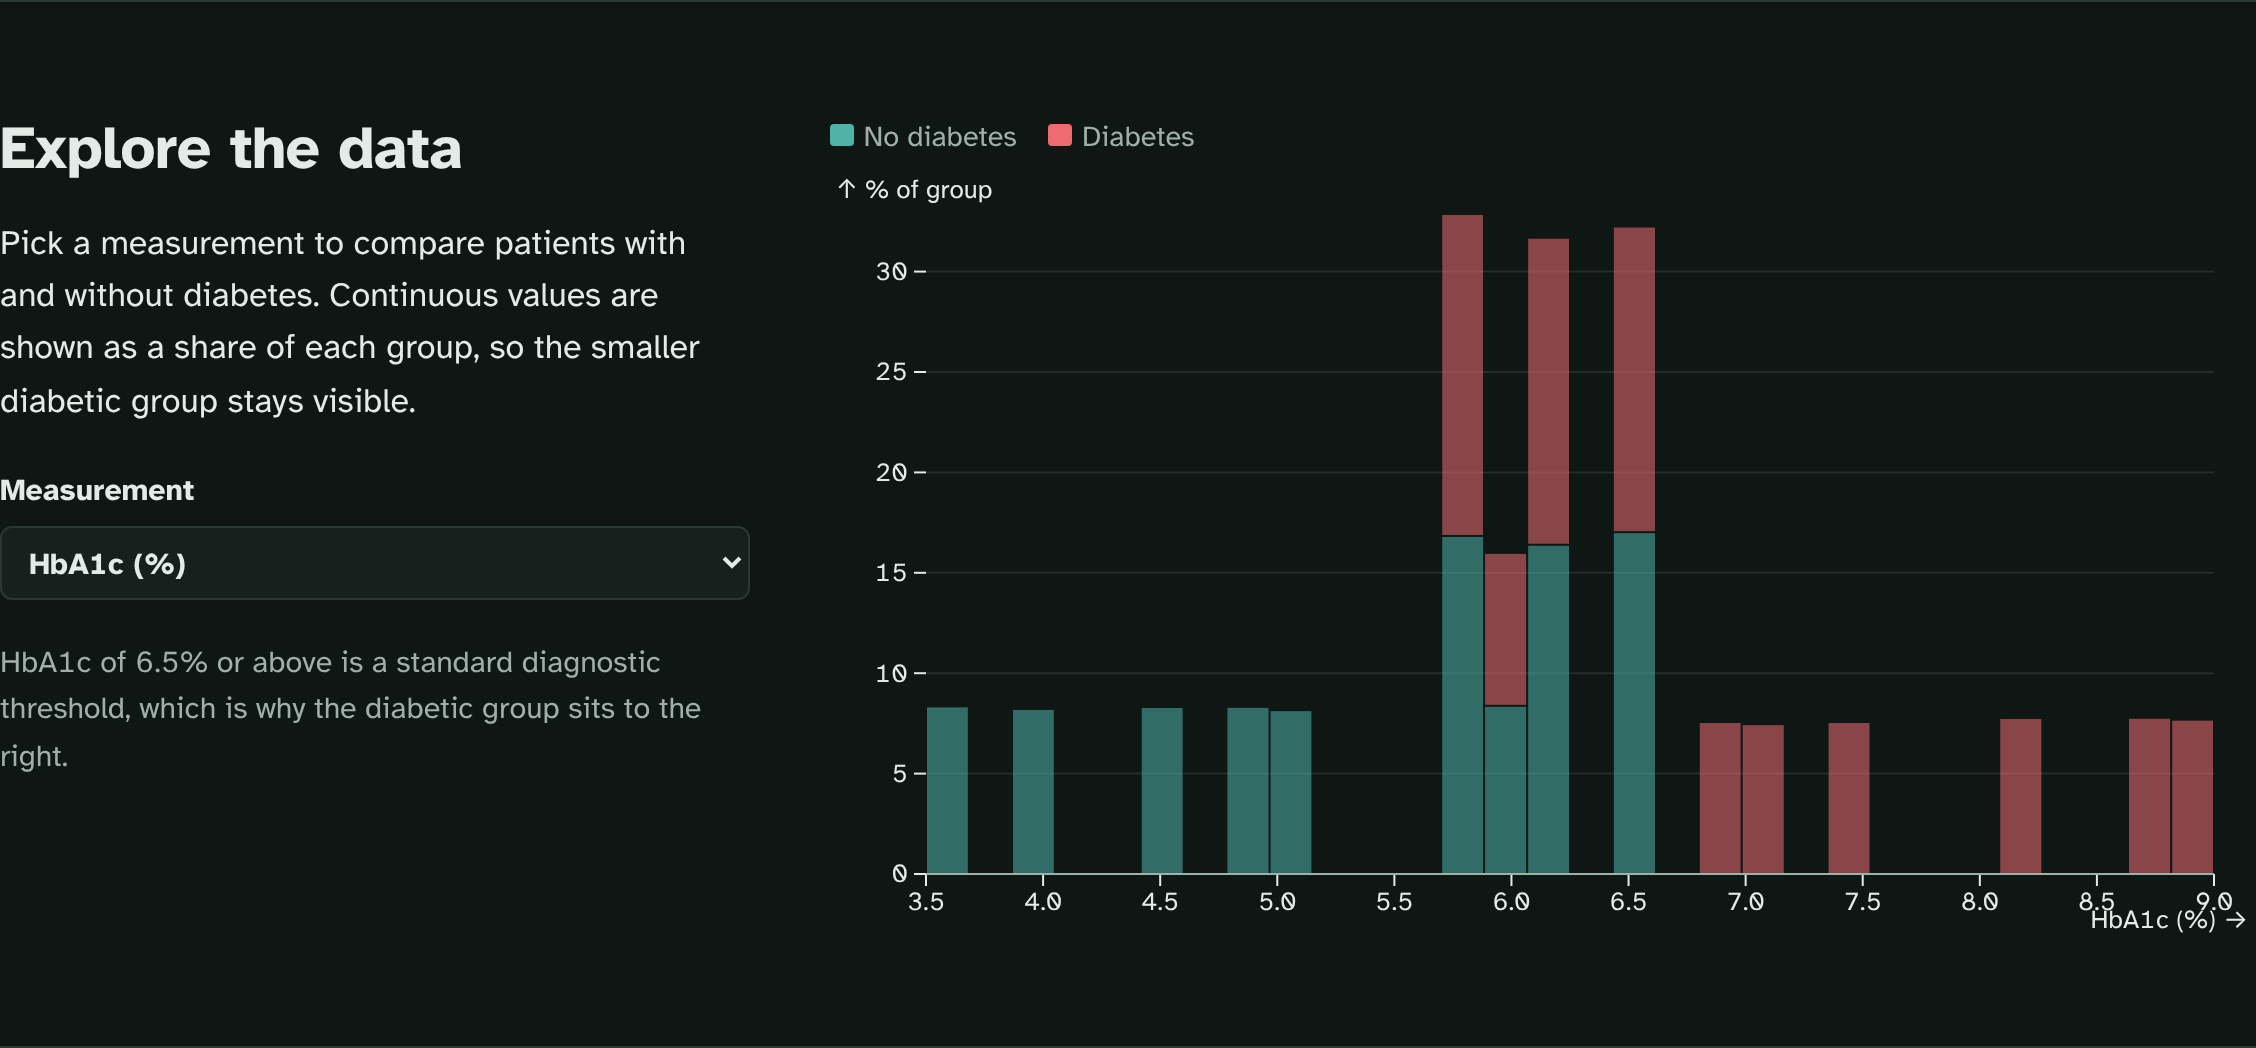
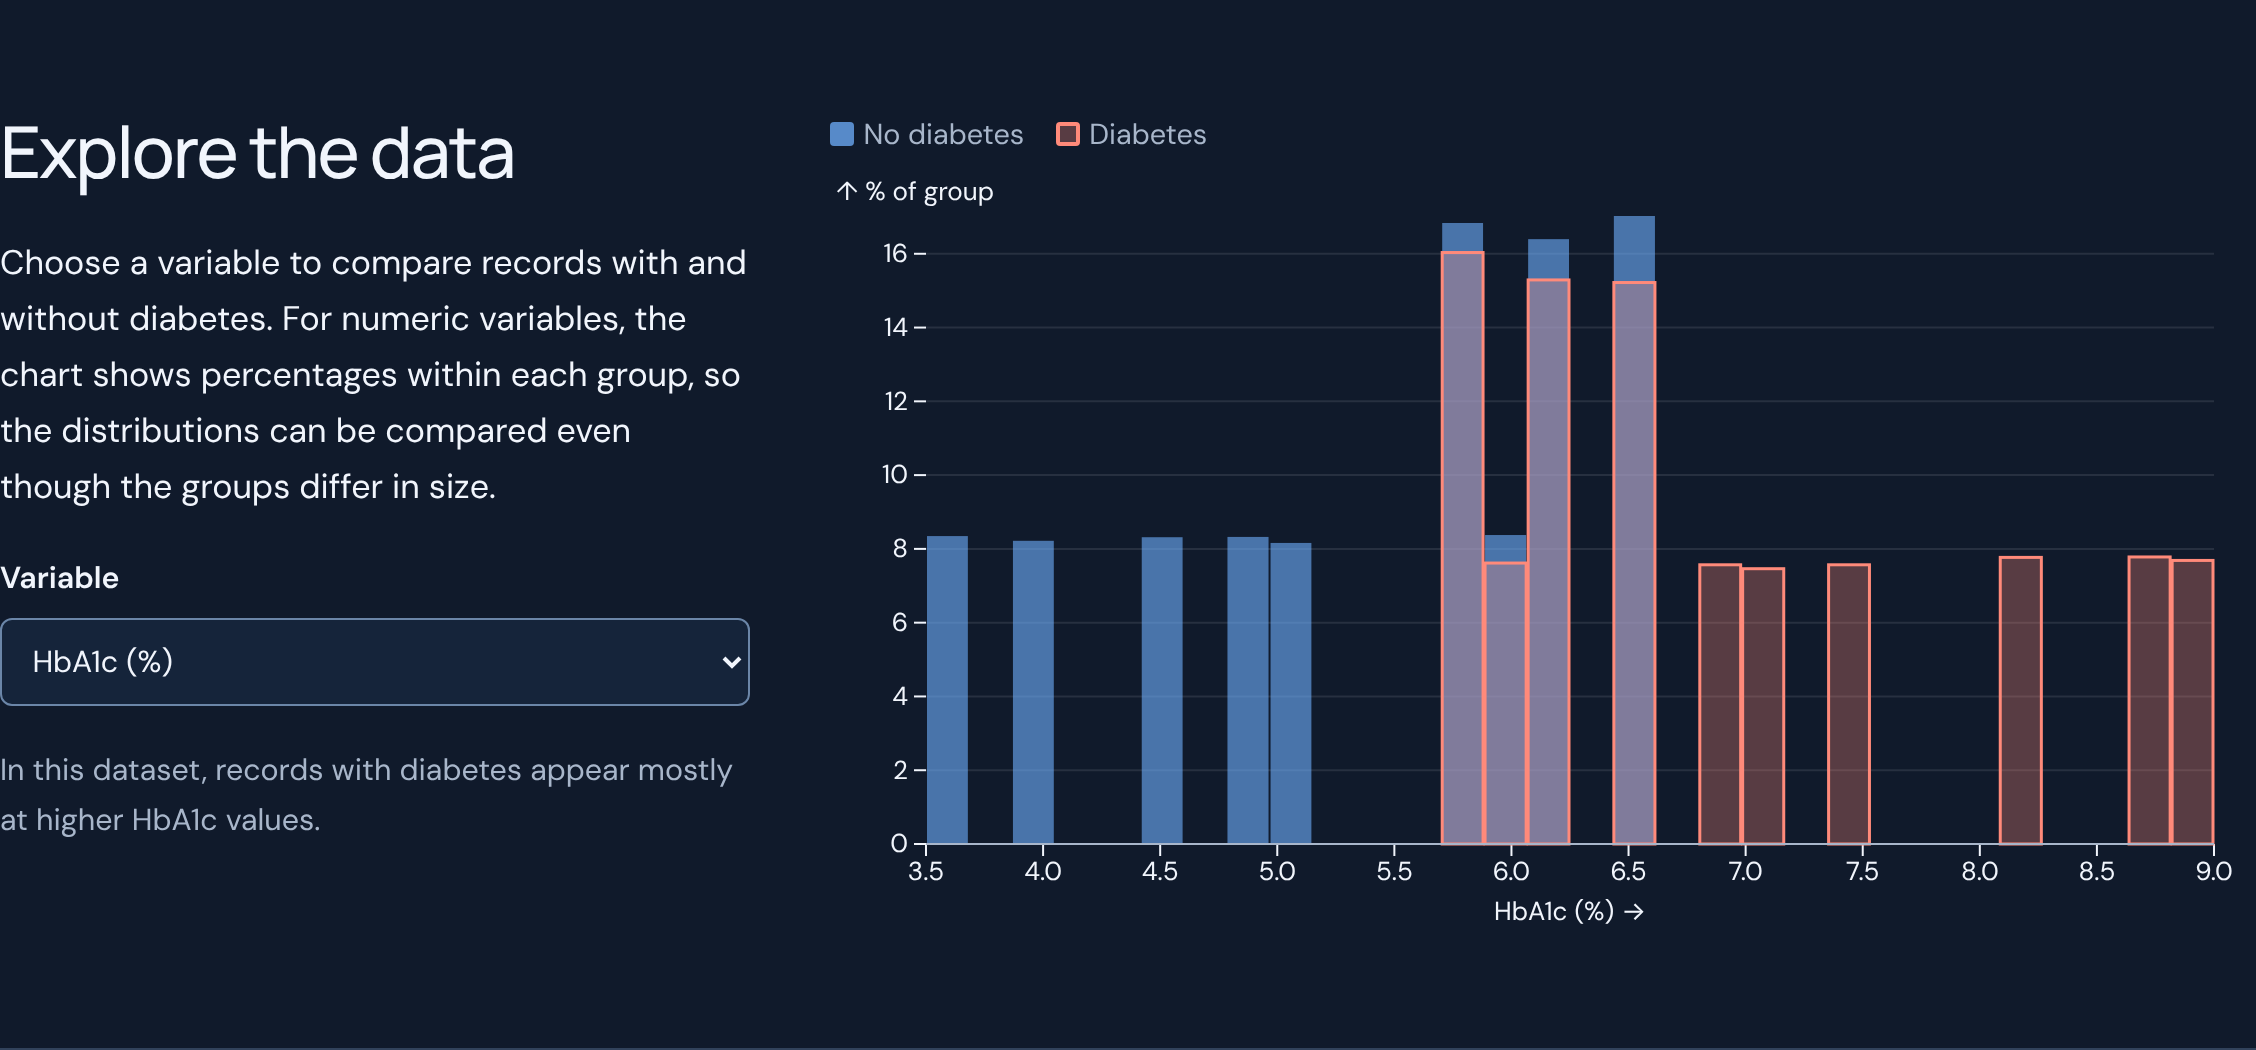
README: Diabetes Data Analysis, records and model estimates (#23)

diff --git a/README.md b/README.md
@@ -1,6 +1,6 @@
-# Diabetes Risk Explorer
+# Diabetes Data Analysis
 
-Explore 100,000 health records, compare two machine-learning models, and try a live diabetes-risk estimate in your browser.
+An educational machine-learning project with an initial set of 100,000 records: explore the data, compare two models and see how their estimates change, in your browser.
 
 **Live demo:** [tsakioan.com/projects/diabetes](https://tsakioan.com/projects/diabetes/) · Greek version: [tsakioan.com/projects/diabetes/el](https://tsakioan.com/projects/diabetes/el/)
 
@@ -8,40 +8,40 @@ The Greek page (`web/el/index.html`) is a hand-written translation of `web/index
 
 ![Dashboard hero](docs/screenshots/hero.png)
 
-> **Educational project — not a medical device or diagnosis.** The results describe this dataset only and are not clinically validated.
+> **Educational machine-learning project. Not intended for medical use or diagnosis.** The results describe this dataset only and are not clinically validated. The model estimates do not measure anyone's actual personal risk of diabetes.
 
 The project started as a CustomTkinter desktop app for a Gatehouse Awards qualification. It has since been rebuilt with a shared, tested Python pipeline and an interactive web version that runs entirely in the browser.
 
 ## What it does
 
-- **Explore the data.** Compare the distributions of HbA1c, blood glucose, BMI and age for patients with and without diabetes, plus diabetes rates by gender, smoking history, hypertension and heart disease. A correlation heatmap and four research hypotheses with sources sit alongside.
-- **Find patient groups.** K-means clustering on age, BMI and HbA1c finds three groups. Each group's description is generated from its actual centre and diabetes rate.
+- **Explore the data.** Compare the distributions of HbA1c, blood glucose, BMI and age for records with and without diabetes, plus the share of records with diabetes by gender, smoking history, hypertension and heart disease. A correlation heatmap and four research hypotheses with sources sit alongside.
+- **Group the records.** K-means clustering on age, BMI and HbA1c splits the records into three groups without using the diabetes outcome. Each group is then described by its actual centre and its proportion of records with diabetes.
 - **Compare models.** A Random Forest and a Logistic Regression are compared on ROC-AUC, recall, precision, F1 and accuracy, with ROC curves, confusion matrices and feature importance.
-- **Try it live.** Move sliders for gender, age, BMI, HbA1c, glucose, hypertension, heart disease and smoking history. Both models update instantly, client-side; nothing is sent anywhere.
+- **Explore model predictions.** Change gender, age, BMI, HbA1c, glucose, hypertension, heart disease and smoking history, and both models' estimates update instantly in the browser; nothing is sent anywhere.
 
 | Predictor | Model comparison |
 |---|---|
-| ![Live predictor](docs/screenshots/predictor.png) | ![Model comparison](docs/screenshots/models.png) |
+| ![Model predictions](docs/screenshots/predictor.png) | ![Model comparison](docs/screenshots/models.png) |
 
 | Dark mode | Phone |
 |---|---|
-| ![Explore section in dark mode](docs/screenshots/explore-dark.png) | ![Predictor on a phone](docs/screenshots/phone.png) |
+| ![Explore section in dark mode](docs/screenshots/explore-dark.png) | ![Model predictions on a phone](docs/screenshots/phone.png) |
 
 ## Results
 
-On a held-out test set of 19,226 patients (stratified 80/20 split):
+On a held-out test set of 19,226 records (stratified 80/20 split):
 
 | Metric | Random Forest | Logistic Regression |
 |---|---|---|
 | ROC-AUC | **0.963** | 0.960 |
-| Recall (share of diabetic patients found) | 0.680 | **0.636** |
-| Precision (share of flagged patients who are diabetic) | **1.000** | 0.860 |
+| Recall (share of records with diabetes found) | 0.680 | **0.636** |
+| Precision (share of positive predictions that have diabetes) | **1.000** | 0.860 |
 | F1 | **0.809** | 0.731 |
 | Accuracy | **0.972** | 0.959 |
 
-The best model is chosen by ROC-AUC, not accuracy, because only 8.8% of patients are diabetic. The Random Forest ranks patients slightly better (0.963 against 0.960), but it is a conservative detector: it flags a patient only when it is confident. In the test set it made no false alarms, yet it missed 543 of the 1,696 diabetic patients. The Logistic Regression found more of them (64%) at the cost of 176 false alarms. Neither model is suitable for screening, and the results describe this dataset only.
+The best model is chosen by ROC-AUC, not accuracy, because only 8.8% of the records have diabetes. The Random Forest ranks records slightly better (0.963 against 0.960), but it is a conservative detector: it classifies a record as positive only when it is confident. In the test set it made no false positives, yet it missed 543 of the 1,696 records with diabetes. The Logistic Regression found more of them (64%) at the cost of 176 false positives. Neither model is suitable for medical screening, and the results describe this dataset only.
 
-Both models are trained without class weights, so their probabilities are already on the dataset's own scale (on simulated data with a known 6% risk, the average prediction matched the observed rate). Bands are relative to the 8.8% rate (Moderate from 2×, High from 5×). The estimator is for comparing how inputs move the estimate, not for reading off anyone's actual risk. HbA1c and blood glucose carry most of the predictive signal.
+Both models are trained without class weights, so their probabilities are already on the dataset's own scale (on simulated data with a known 6% risk, the average prediction matched the observed rate). The Low/Moderate/High model estimate bands are relative to the 8.8% rate (Moderate from 2×, High from 5×). The model predictions section is for comparing how inputs move each model's estimate, not for reading off anyone's actual risk. HbA1c and blood glucose carry most of the predictive signal.
 
 ## Dataset
 
@@ -54,7 +54,7 @@ To run the analysis or the tests:
 1. Open the [Diabetes Prediction Dataset by iammustafatz on Kaggle](https://www.kaggle.com/datasets/iammustafatz/diabetes-prediction-dataset) and read its licence terms.
 2. Download the CSV file and save it in this repository as `data/sample.csv`. The file stays on your machine and is ignored by git.
 
-The published results in `web/data/` are summaries and models trained on the data. They contain no individual records: the cluster chart counts groups of at least 5 patients, and the browser parity test uses synthetic inputs.
+The published results in `web/data/` are summaries and models trained on the data. They contain no individual records: the cluster chart counts groups of at least 5 records, and the browser parity test uses synthetic inputs.
 
 ## Data preparation
 
@@ -143,7 +143,7 @@ xvfb-run -a python -m pytest tests     # include desktop tests on a headless Lin
 node --test tests/js/*.test.mjs        # JS/Python parity + browser smoke test (Playwright)
 ```
 
-The smoke test serves `web/` under `/projects/diabetes/`, checks that every chart renders, and checks that the predictor responds to input.
+The smoke test serves `web/` under `/projects/diabetes/`, checks that every chart renders, and checks that the model estimates respond to input.
 
 ## Licence
 
